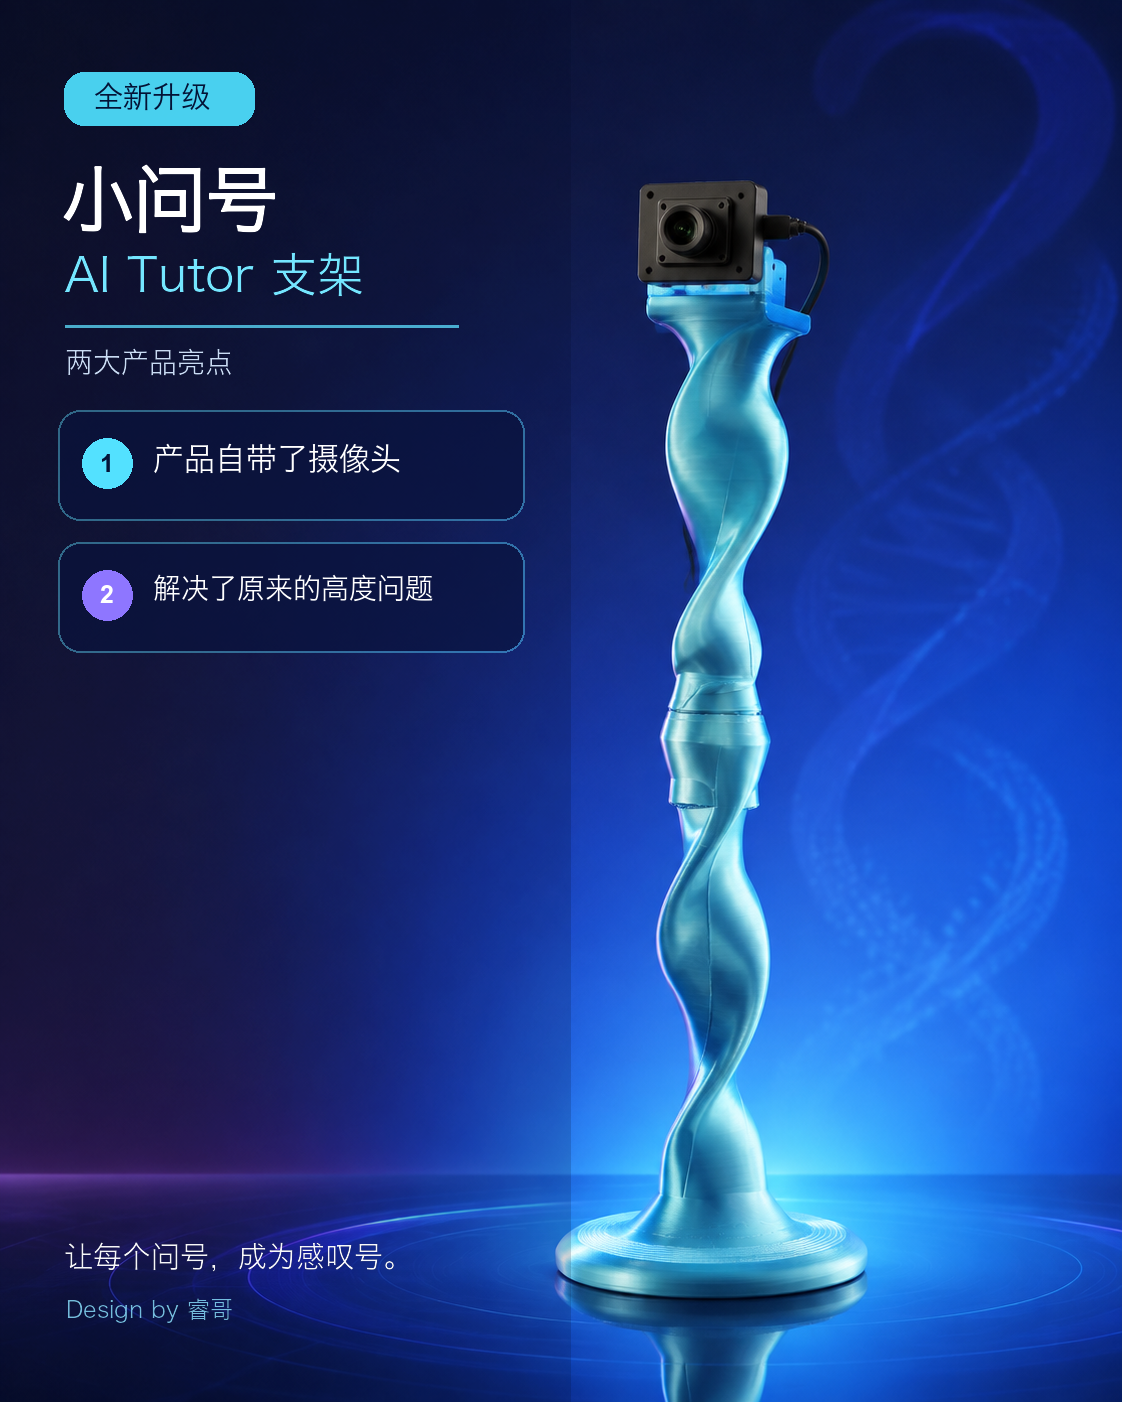
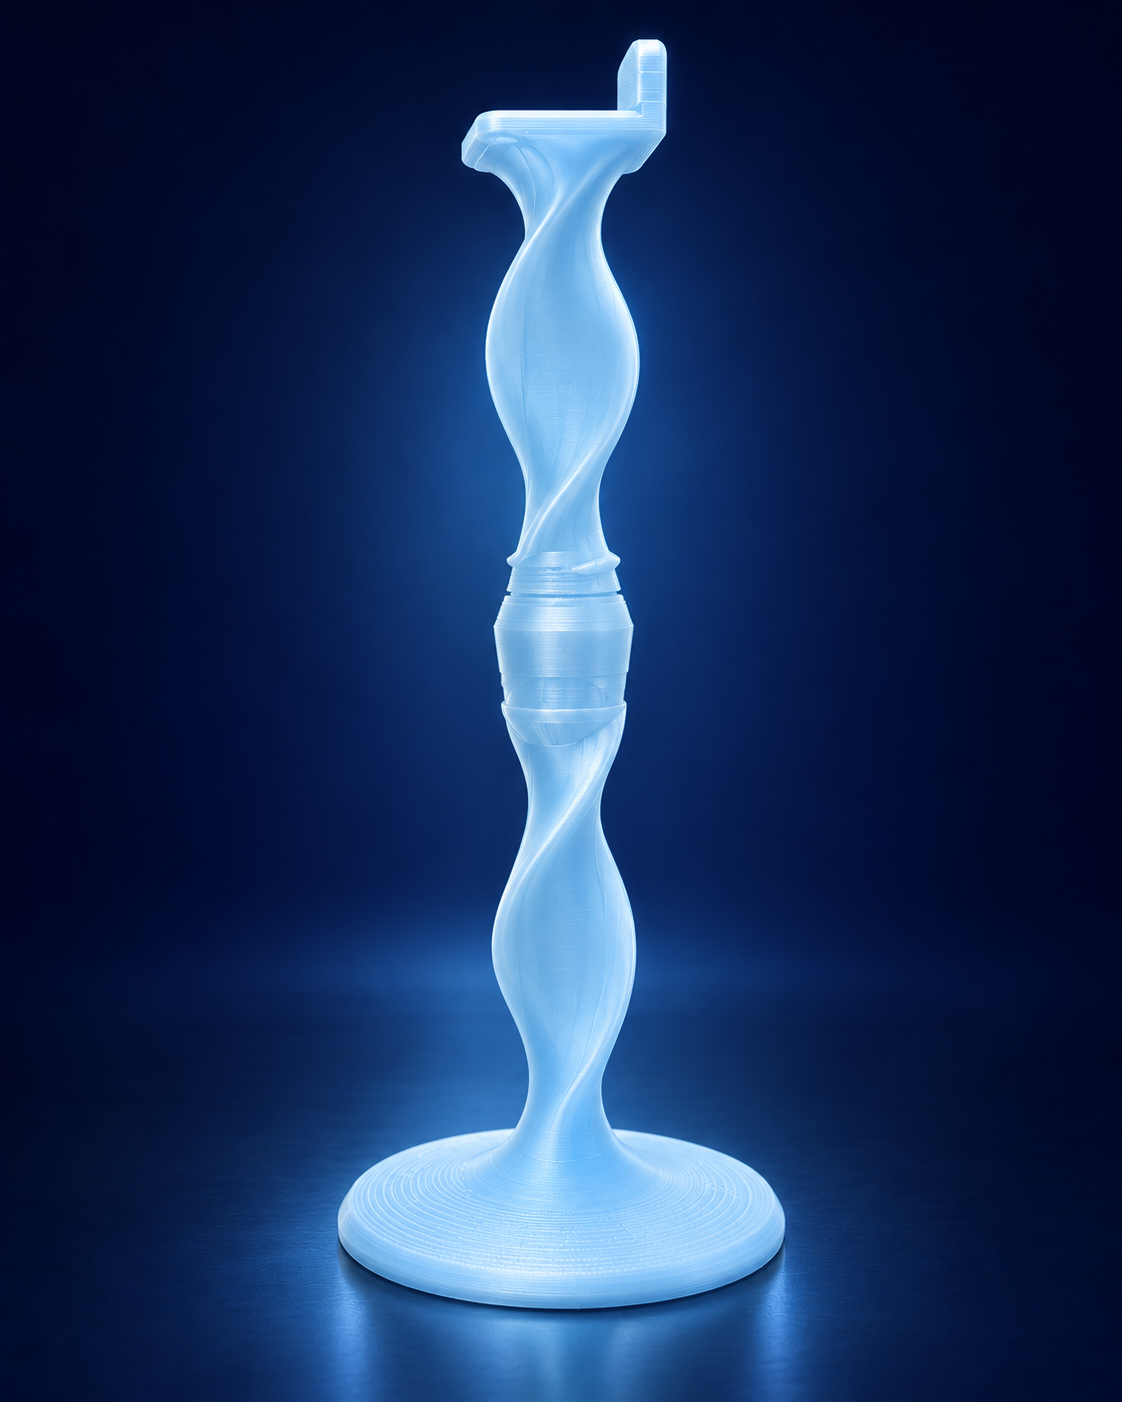
feat: restore glacier blue stand option

diff --git a/app/(main)/shop/xiaowenhao-ai-tutor-stand/ProductPurchaseForm.tsx b/app/(main)/shop/xiaowenhao-ai-tutor-stand/ProductPurchaseForm.tsx
@@ -5,9 +5,10 @@ import { useSession } from 'next-auth/react'
 import { useRouter } from 'next/navigation'
 
 type StandModel = 'stand-only' | 'with-camera'
-type StandColor = 'neon-pink-blue' | 'midnight-blue-black' | 'dream-purple' | 'lava-red-black'
+type StandColor = 'glacier-blue' | 'neon-pink-blue' | 'midnight-blue-black' | 'dream-purple' | 'lava-red-black'
 
 const colors: Array<{ id: StandColor; label: string; swatch: string }> = [
+  { id: 'glacier-blue', label: '冰川蓝', swatch: 'from-sky-100 via-cyan-300 to-blue-600' },
   { id: 'neon-pink-blue', label: '霓虹粉蓝', swatch: 'from-fuchsia-400 via-pink-400 to-cyan-400' },
   { id: 'midnight-blue-black', label: '星夜蓝黑', swatch: 'from-blue-500 via-slate-900 to-black' },
   { id: 'dream-purple', label: '幻境炫紫', swatch: 'from-violet-300 via-violet-600 to-indigo-950' },
@@ -32,7 +33,7 @@ export default function ProductPurchaseForm({
   const { status } = useSession()
   const router = useRouter()
   const [model, setModel] = useState<StandModel>(withCamera.stock > 0 ? 'with-camera' : 'stand-only')
-  const [color, setColor] = useState<StandColor>('neon-pink-blue')
+  const [color, setColor] = useState<StandColor>('glacier-blue')
   const [loading, setLoading] = useState(false)
   const [error, setError] = useState('')
   const modelInventory = {
@@ -128,13 +129,6 @@ export default function ProductPurchaseForm({
       <fieldset>
         <legend className="text-sm font-black">2. 选择颜色偏好</legend>
         <div className="mt-4 grid grid-cols-2 gap-3 sm:grid-cols-3">
-          <div className="flex min-h-20 cursor-not-allowed items-center gap-3 rounded-2xl border border-white/8 bg-white/[0.02] px-3 opacity-45" aria-label="冰川蓝暂时缺货">
-            <span className="h-9 w-9 shrink-0 rounded-full bg-gradient-to-br from-sky-200 via-cyan-400 to-blue-700 grayscale-[35%]" />
-            <span>
-              <span className="block text-xs font-black leading-5 text-white">冰川蓝</span>
-              <span className="block text-[10px] font-bold text-white/60">暂时缺货</span>
-            </span>
-          </div>
           {colors.map((option) => (
             <label key={option.id} className="cursor-pointer">
               <input type="radio" name="color" value={option.id} checked={color === option.id} onChange={() => setColor(option.id)} className="peer sr-only" />

diff --git a/lib/shop.ts b/lib/shop.ts
@@ -55,12 +55,13 @@ export async function ensureWalkingInAgesBook() {
   })
 }
 export const XIAOWENHAO_WEEKLY_LIMIT = 10
-export const PRODUCT_COLORS = ['neon-pink-blue', 'midnight-blue-black', 'dream-purple', 'lava-red-black'] as const
+export const PRODUCT_COLORS = ['glacier-blue', 'neon-pink-blue', 'midnight-blue-black', 'dream-purple', 'lava-red-black'] as const
 export type ProductColor = (typeof PRODUCT_COLORS)[number]
 export const PRODUCT_MODELS = ['stand-only', 'with-camera'] as const
 export type ProductModel = (typeof PRODUCT_MODELS)[number]
 
 export const productColorLabels: Record<ProductColor, { zh: string; en: string }> = {
+  'glacier-blue': { zh: '冰川蓝', en: 'Glacier Blue' },
   'neon-pink-blue': { zh: '霓虹粉蓝', en: 'Neon Pink Blue' },
   'midnight-blue-black': { zh: '星夜蓝黑', en: 'Midnight Blue Black' },
   'dream-purple': { zh: '幻境炫紫', en: 'Dream Purple' },

diff --git a/app/(main)/shop/xiaowenhao-ai-tutor-stand/page.tsx b/app/(main)/shop/xiaowenhao-ai-tutor-stand/page.tsx
@@ -27,7 +27,7 @@ export default async function XiaowenhaoProductPage() {
           <section className="lg:sticky lg:top-24">
             <ProductGallery />
             <p className="mt-4 rounded-2xl border border-fuchsia-300/20 bg-fuchsia-300/[0.07] px-5 py-4 text-center text-xs font-bold leading-6 text-fuchsia-100">
-              展示五种配色，冰川蓝暂时缺货；其余颜色可正常选择。同一配色的渐变与纹理也会自然不同，每一件都是独一无二的。
+              展示五种可选配色，冰川蓝现已恢复供应。同一配色的渐变与纹理也会自然不同，每一件都是独一无二的。
             </p>
             <div className="mt-4 grid grid-cols-3 gap-3 text-center text-xs font-bold text-white/60">
               <div className="rounded-2xl border border-white/10 bg-white/[0.035] px-2 py-4">高度升级</div>
